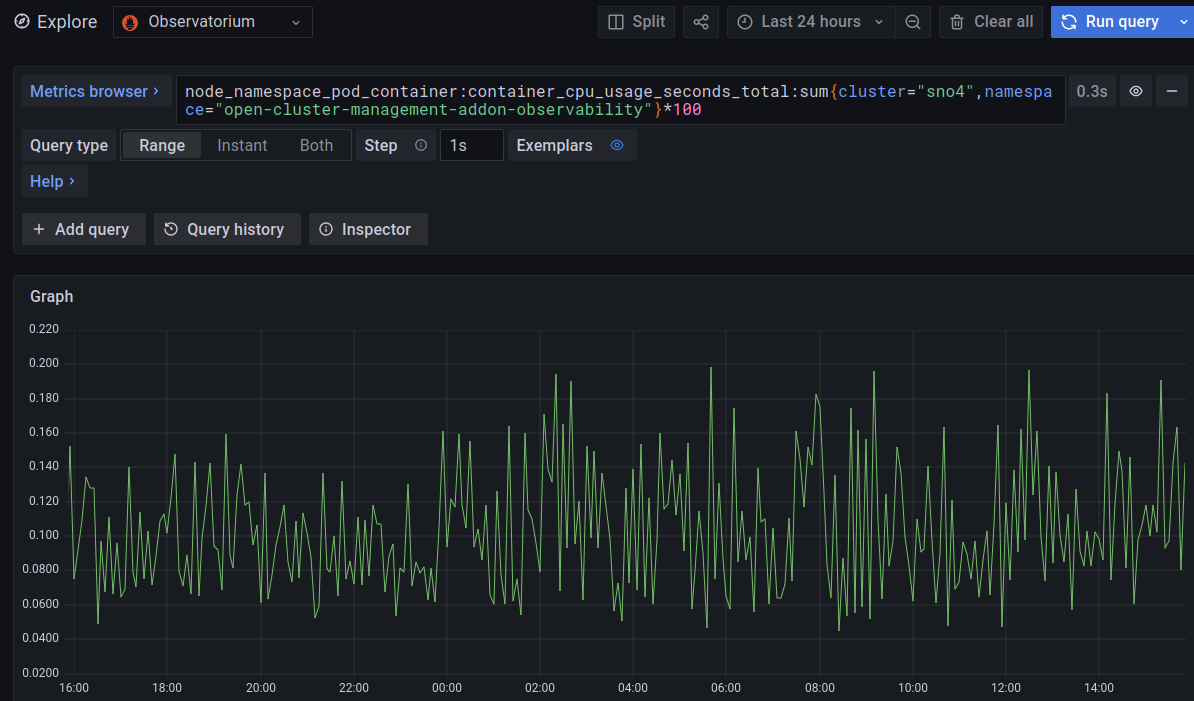
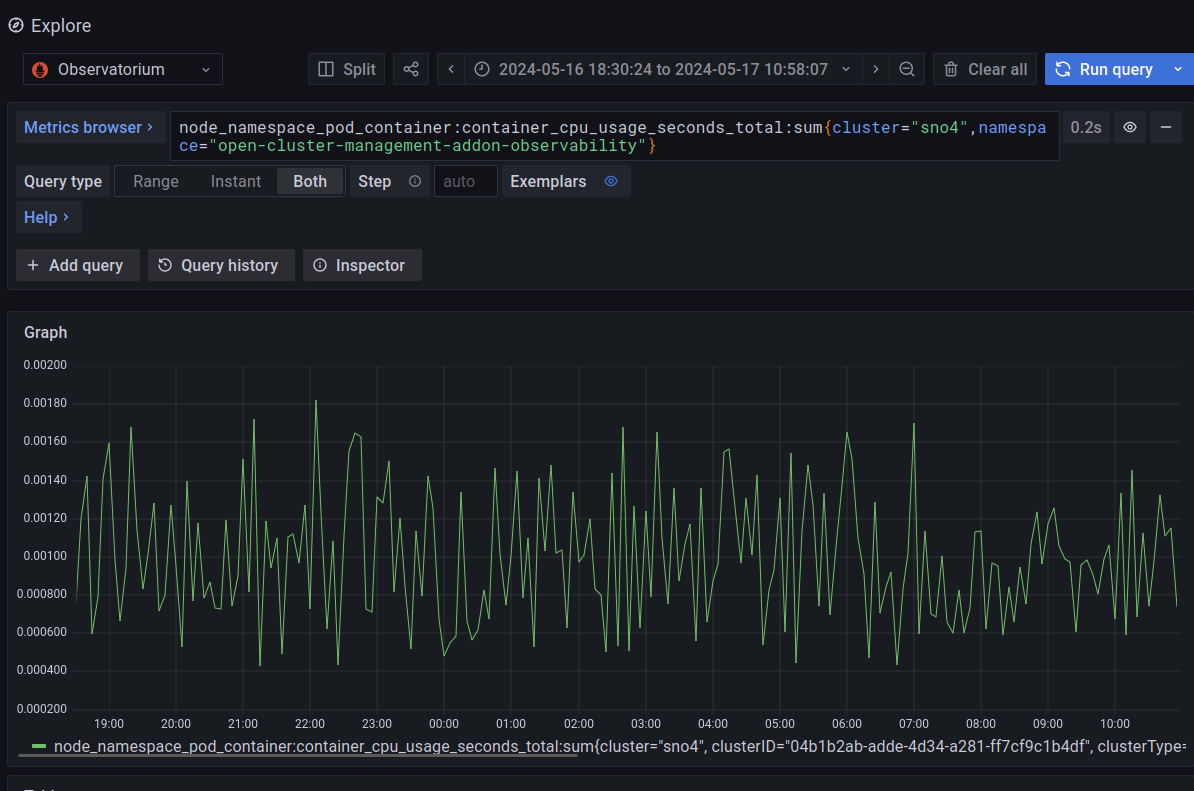
new post

diff --git a/jgato-red-blog/content/posts/Cluster-Observability/index.md b/jgato-red-blog/content/posts/Cluster-Observability/index.md
@@ -14,15 +14,15 @@ hideComments = false
 
 # Red Hat Advanced Cluster Management and MultiCluster Observability
 
-In this blog, I will focus on how you can monitor your cloud/edge clusters from a central management point. Monitoring your clusters (or infrastructure) is a key first step to take decision (automatic or not), solve problems, doing maintenance, etc. When a large infrastructure, monitoring turns into a more painful task. Red Hat Advanced Cluster Management (RHACM) and the MultiCluster Observability, allows you to have an homogenized way of monitoring your whole infrastructure from  a central repository. Which is already your central life-cycle management, and most likely,  the origin where all your clusters were created.
+In this blog, I will focus on how you can monitor your cloud/edge clusters from a central management point. Monitoring your clusters (or infrastructure) is a key first step to take decision (automatic or not), solve problems, doing maintenance, etc. When a large infrastructure, monitoring turns into a more painful task. Red Hat Advanced Cluster Management (RHACM) and the MultiCluster Observability, allows you to have an homogenized way of monitoring your whole infrastructure from  a central repository. Which is already your central life-cycle management, and most likely, the origin where all your clusters were created.
 
-Before going with the real topic of this document, lets do a brifely introduction to Openshift Cluster Monitoring, RHACM and MultiCluster observability. 
+Before going with the real topic of this document, lets do a briefly introduction to Openshift Cluster Monitoring, RHACM and MultiCluster observability. 
 
 First of all, every cluster using Openshift Cloud Platform deploys a cluster operator called Openshift Cluster Monitoring.
 
 ![](assets/openshift_cluster_monitoring_arch.png)
 
-The main component in the **Cluster Monitoring** is Prometheus. Prometheus will scrape metrics of any service (defined by ServiceMonitoring) that exports a `/metrics` interface exposing a set of different metrics. Later, Thanos provides a PromQL interface, is in charge of persistence and it can receive metrics from different Prometheus instances. By default, Openshift defines a set of different metrics to be collected, but others can be added by users.
+The main component in the **Cluster Monitoring** is Prometheus. Prometheus will scrape metrics of any service (defined by ServiceMonitoring) that exports a `/metrics` interface exposing a set of different metrics. Later, Thanos provides a PromQL interface, it is in charge of metric's persistence and it can receive metrics from different Prometheus instances. By default, Openshift defines a set of different metrics to be collected, but others can be added by users.
 
 **[Red Hat Advanced Cluster Management](https://www.redhat.com/en/technologies/management/advanced-cluster-management)** allows you to deploy, upgrade, and configure different management clusters from a central management cluster.
 
@@ -40,7 +40,7 @@ Once everything is enabled, you can have a very quick observation of your cluste
 
 ![](assets/Observability_overview.png)
 
-Also, you can use the Grafana observability dashboard (https://https://grafana-open-cluster-management-observability.apps.your-domain) to a deeper view of what is happening.
+Also, you can use the Grafana observability dashboard (https://https://grafana-open-cluster-management-observability.apps.your-domain) to have a deeper view of what is happening.
 
 ![](assets/Observability_dashboard_1.png)
 
@@ -56,11 +56,11 @@ In a very quick example, you can check different alerts on your clusters.
 
 ![](assets/observability_alert_1.png)
 
-In this example, you can see a triggered alert about a Policy Violation on the cluster named "sno4". I dont want to make the blog very much complex, so, you can consider a Policy as an expected configuration on a cluster ([RHACM Governance](https://access.redhat.com/documentation/en-us/red_hat_advanced_cluster_management_for_kubernetes/2.10/html-single/governance/index#policy-overview).
+In this example, you can see a triggered alert about a Policy Violation on the cluster named "sno4". You can consider a Policy, like a way of configuring or expressing a desired status on your cluster.
 
-> I will not explain how to fix a Policy Violation, because it is not the scope of the blog and for the sake of blog's readiness. But basically, you apply/fix the  cluster configuration, to make it complain with the Policy. 
+> I will not explain how to fix a Policy Violation, because it is not the scope of the blog and for the sake of blog's readiness. But basically, you apply/fix the  cluster configuration, to make it complain with the Policy.  More on [RHACM Governance](https://access.redhat.com/documentation/en-us/red_hat_advanced_cluster_management_for_kubernetes/2.10/html-single/governance/index#policy-overview)
 
-Once the Alert is triggered, you can take the needed actions. If the problem is solved, the Alert will go down. As it has been seen in the following action, and how I solved the problem around 16:55.
+Once the Alert is triggered, you can take the needed actions. If the problem is solved, the Alert will go down. As it can be been seen in the following picture, and how I solved the problem around 16:55.
 
 ![](assets/observability_alert_2.png)
 
@@ -68,21 +68,27 @@ Once the Alert is triggered, you can take the needed actions. If the problem is 
 
 Observability is needed in order to monitor all your clusters, but, the mechanisms has to be lightweight enough to not affect your current workloads. 
 
-The following experiments shows the cpu consumption, of the Namespace containing the Observability add-on, in a relaxed and in an over-loaded environment. How much hardware consumes to have enabled observability?
+Therefore, I will do quick simple experiment to check how much extra consumption you would have using Observability. All the observations are, obviously, from the management cluster.
 
 > This is just a light experiment, and it is not a reference measurement. It can be considered as just a quick/light analysis.
+
+I will take a relaxed cluster: Single Node Openshift with 48 Cores and 96GB RAM. 
+
+Initially, there are no extra workloads. The observability add-on is having the following CPU consumptions (around 0.08 and 0.18 seconds of CPU usage)
+
+![](assets/consumption_1.png)
 
 The query to take the CPU consumption of the Observability add-on:
 
 ```
-node_namespace_pod_container:container_cpu_usage_seconds_total:sum{cluster="sno4",namespace="open-cluster-management-addon-observability"}*100
+node_namespace_pod_container:container_cpu_usage_seconds_total:sum{cluster="sno4",namespace="open-cluster-management-addon-observability"}
 ```
 
-During the last 24 hours, with the cluster with no extra workloads, the consumption is pretty low (about 20% of one core).
 
-![](assets/consumption_1.png)
+Now, we will stress the cluster to see if this makes the observability add-on to get higher consumptions. 
 
-I will burn a little the cluster. Basically, I will make many deployments of a client/server deployment. This will create many Pods, network interfaces, etc.
+
+Basically, I will make many deployments of a client/server application. This will create many Pods, network interfaces, etc.
 
 Something like:
 
@@ -91,18 +97,32 @@ sh-5.1# crictl pods | wc -l
 271
 sh-5.1# ip link show 2>/dev/null | wc -l  
 477
-
 ```
 
 Compared with the relaxed cluster:
 
 ```bash
-
+sh-5.1# crictl pods | wc -l
+103
+sh-5.1# ip link show 2>/dev/null | wc -l 
+177
 ```
 
-How I burn the cluster, you can check this other [tutorial](https://github.com/jgato/jgato/blob/main/random_docs/Debugging%20monitoring%20stack%20on%20Openshift.md)
+> More about how I burn the cluster: you can check this [other tutorial](https://github.com/jgato/jgato/blob/main/random_docs/Debugging%20monitoring%20stack%20on%20Openshift.md). I am also adding a Pod that can take as much CPU as you want, based on [stress-ng](https://github.com/ColinIanKing/stress-ng/)
 
+We have all the stress happening in the `default` Namespace:
 
+```bash
+$ oc adm top node
+NAME   CPU(cores)   CPU%   MEMORY(bytes)   MEMORY%   
+sno4   36543m       83%    46770Mi         75% 
+```
+
+With this load, we can compare the observability consumption related to the high loads of the stressing Namespace:
+
+![](assets/consumption_2.png)
+
+Apart from on very concrete peak, it seems that the high loads are not affecting to the observability add-on, which behaves pretty constant. 
 
 
 ## Conclusions
